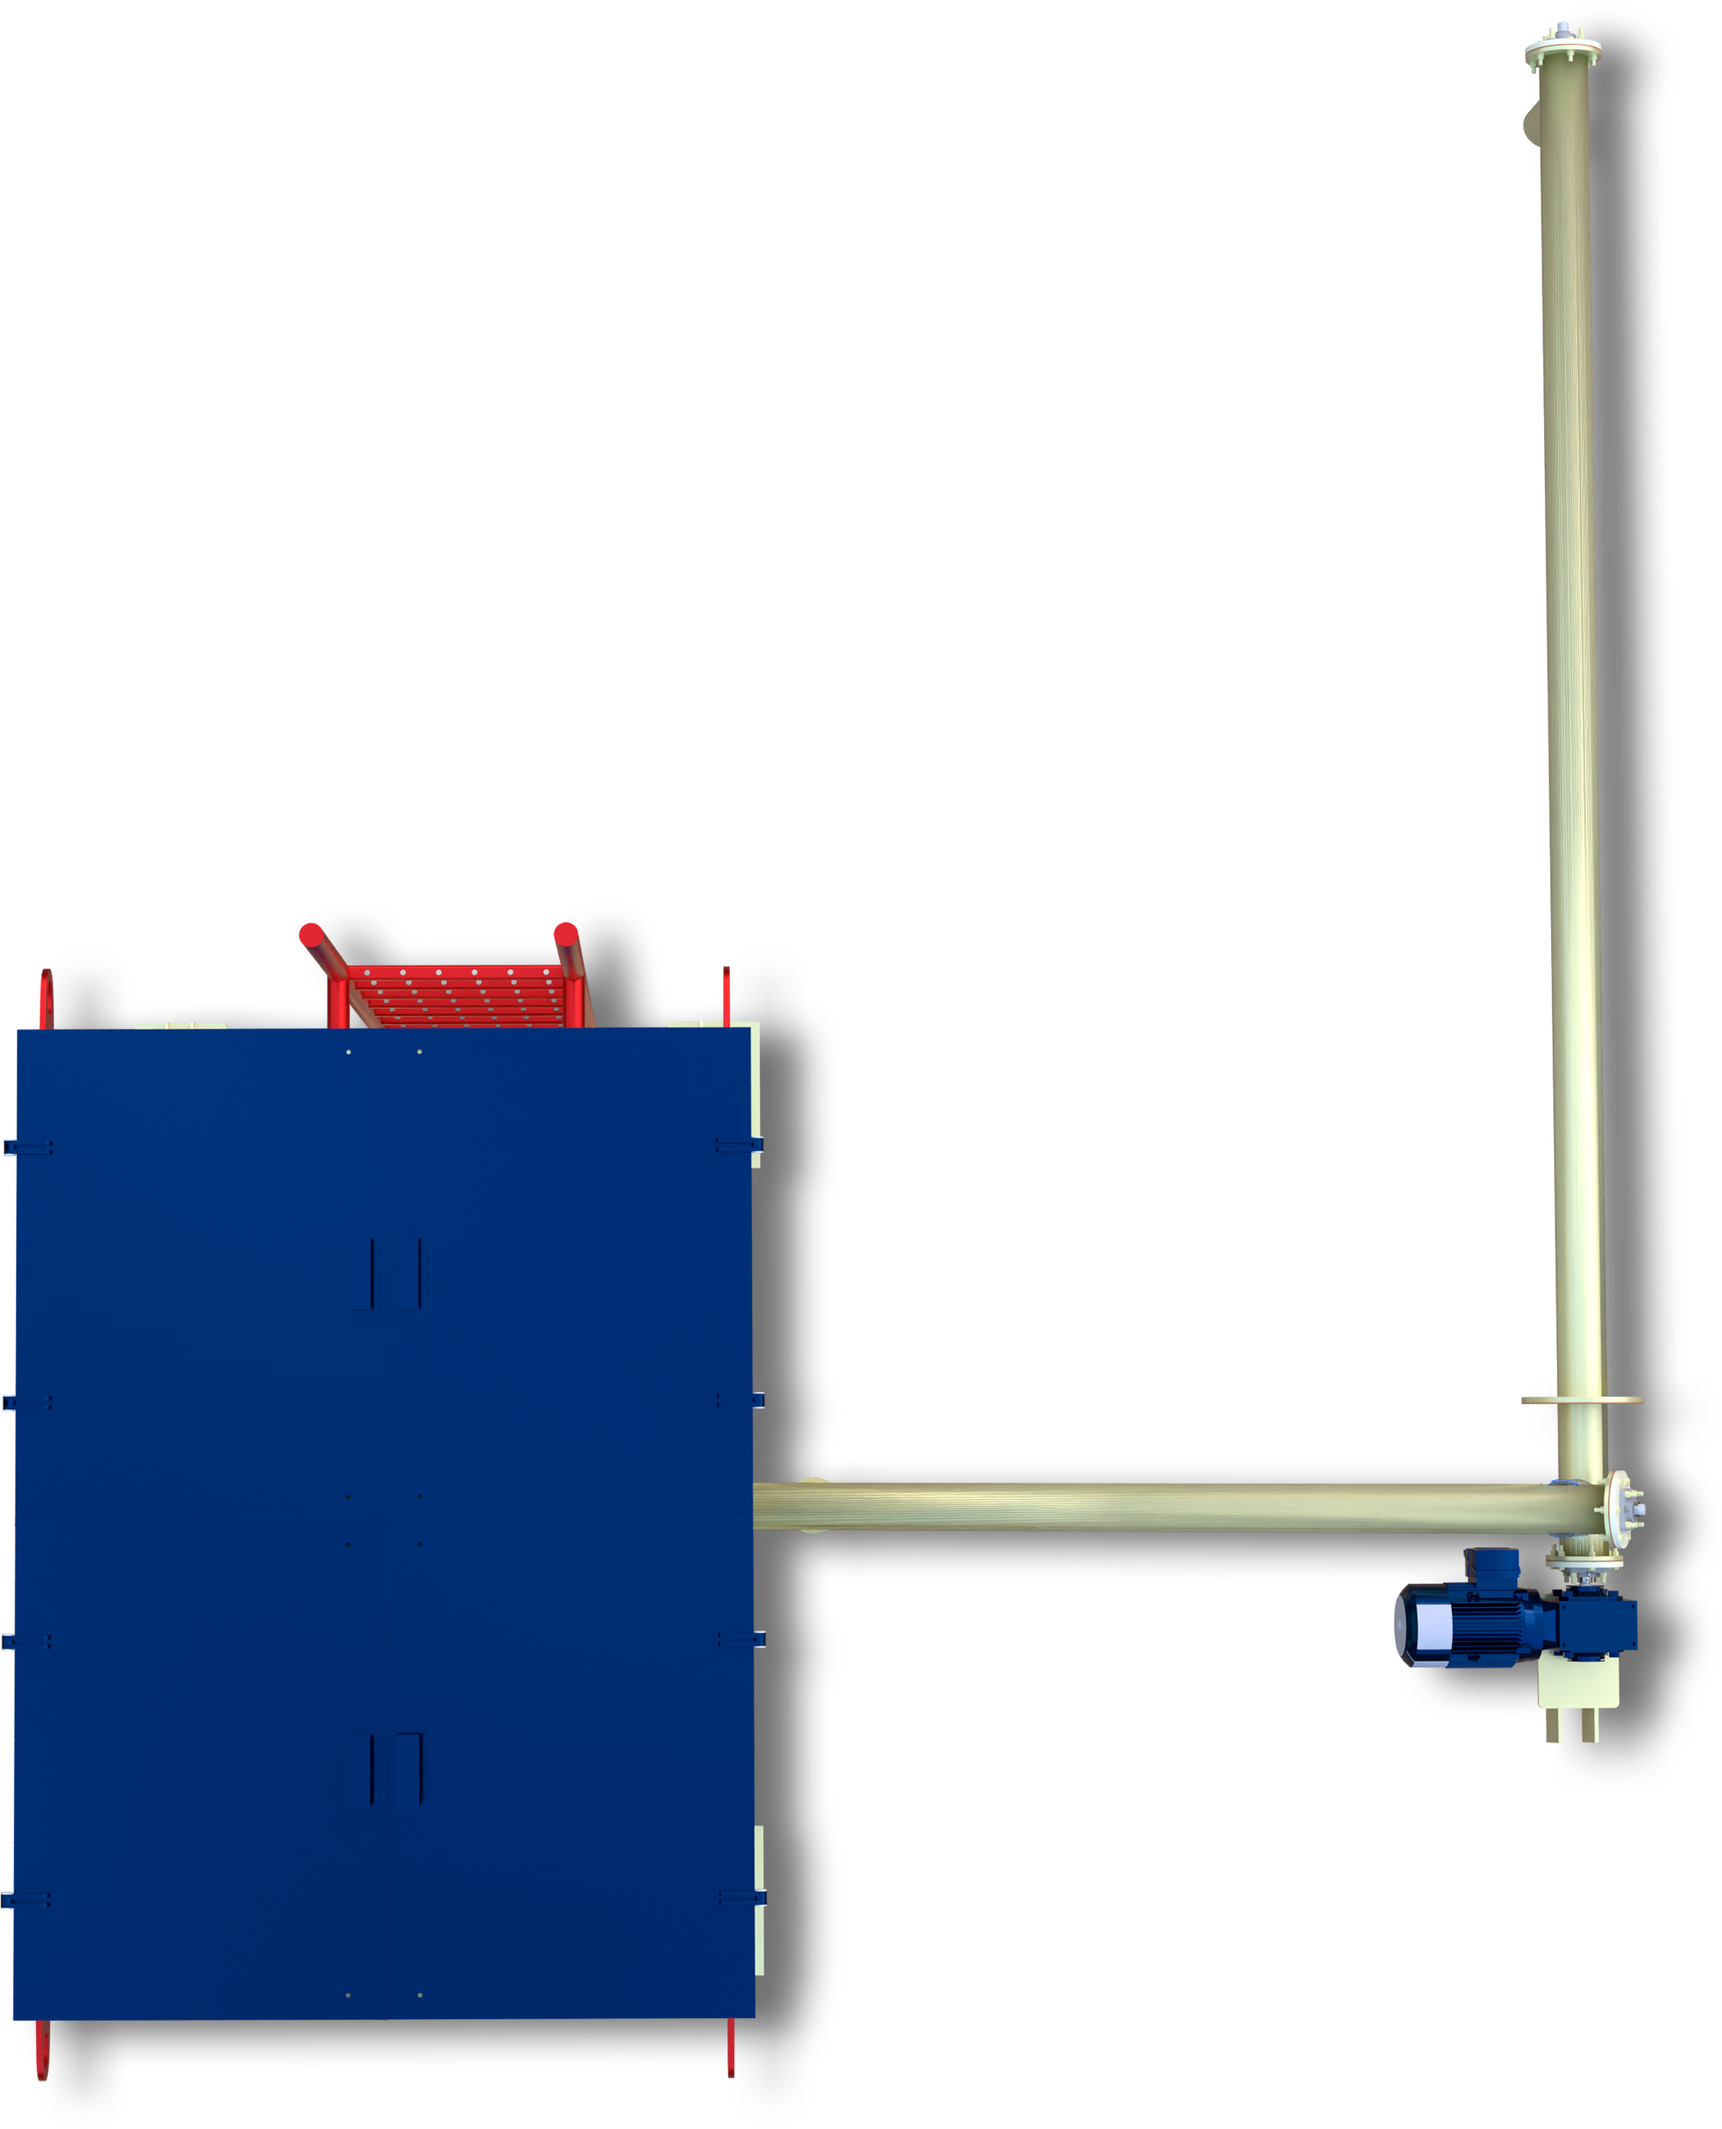
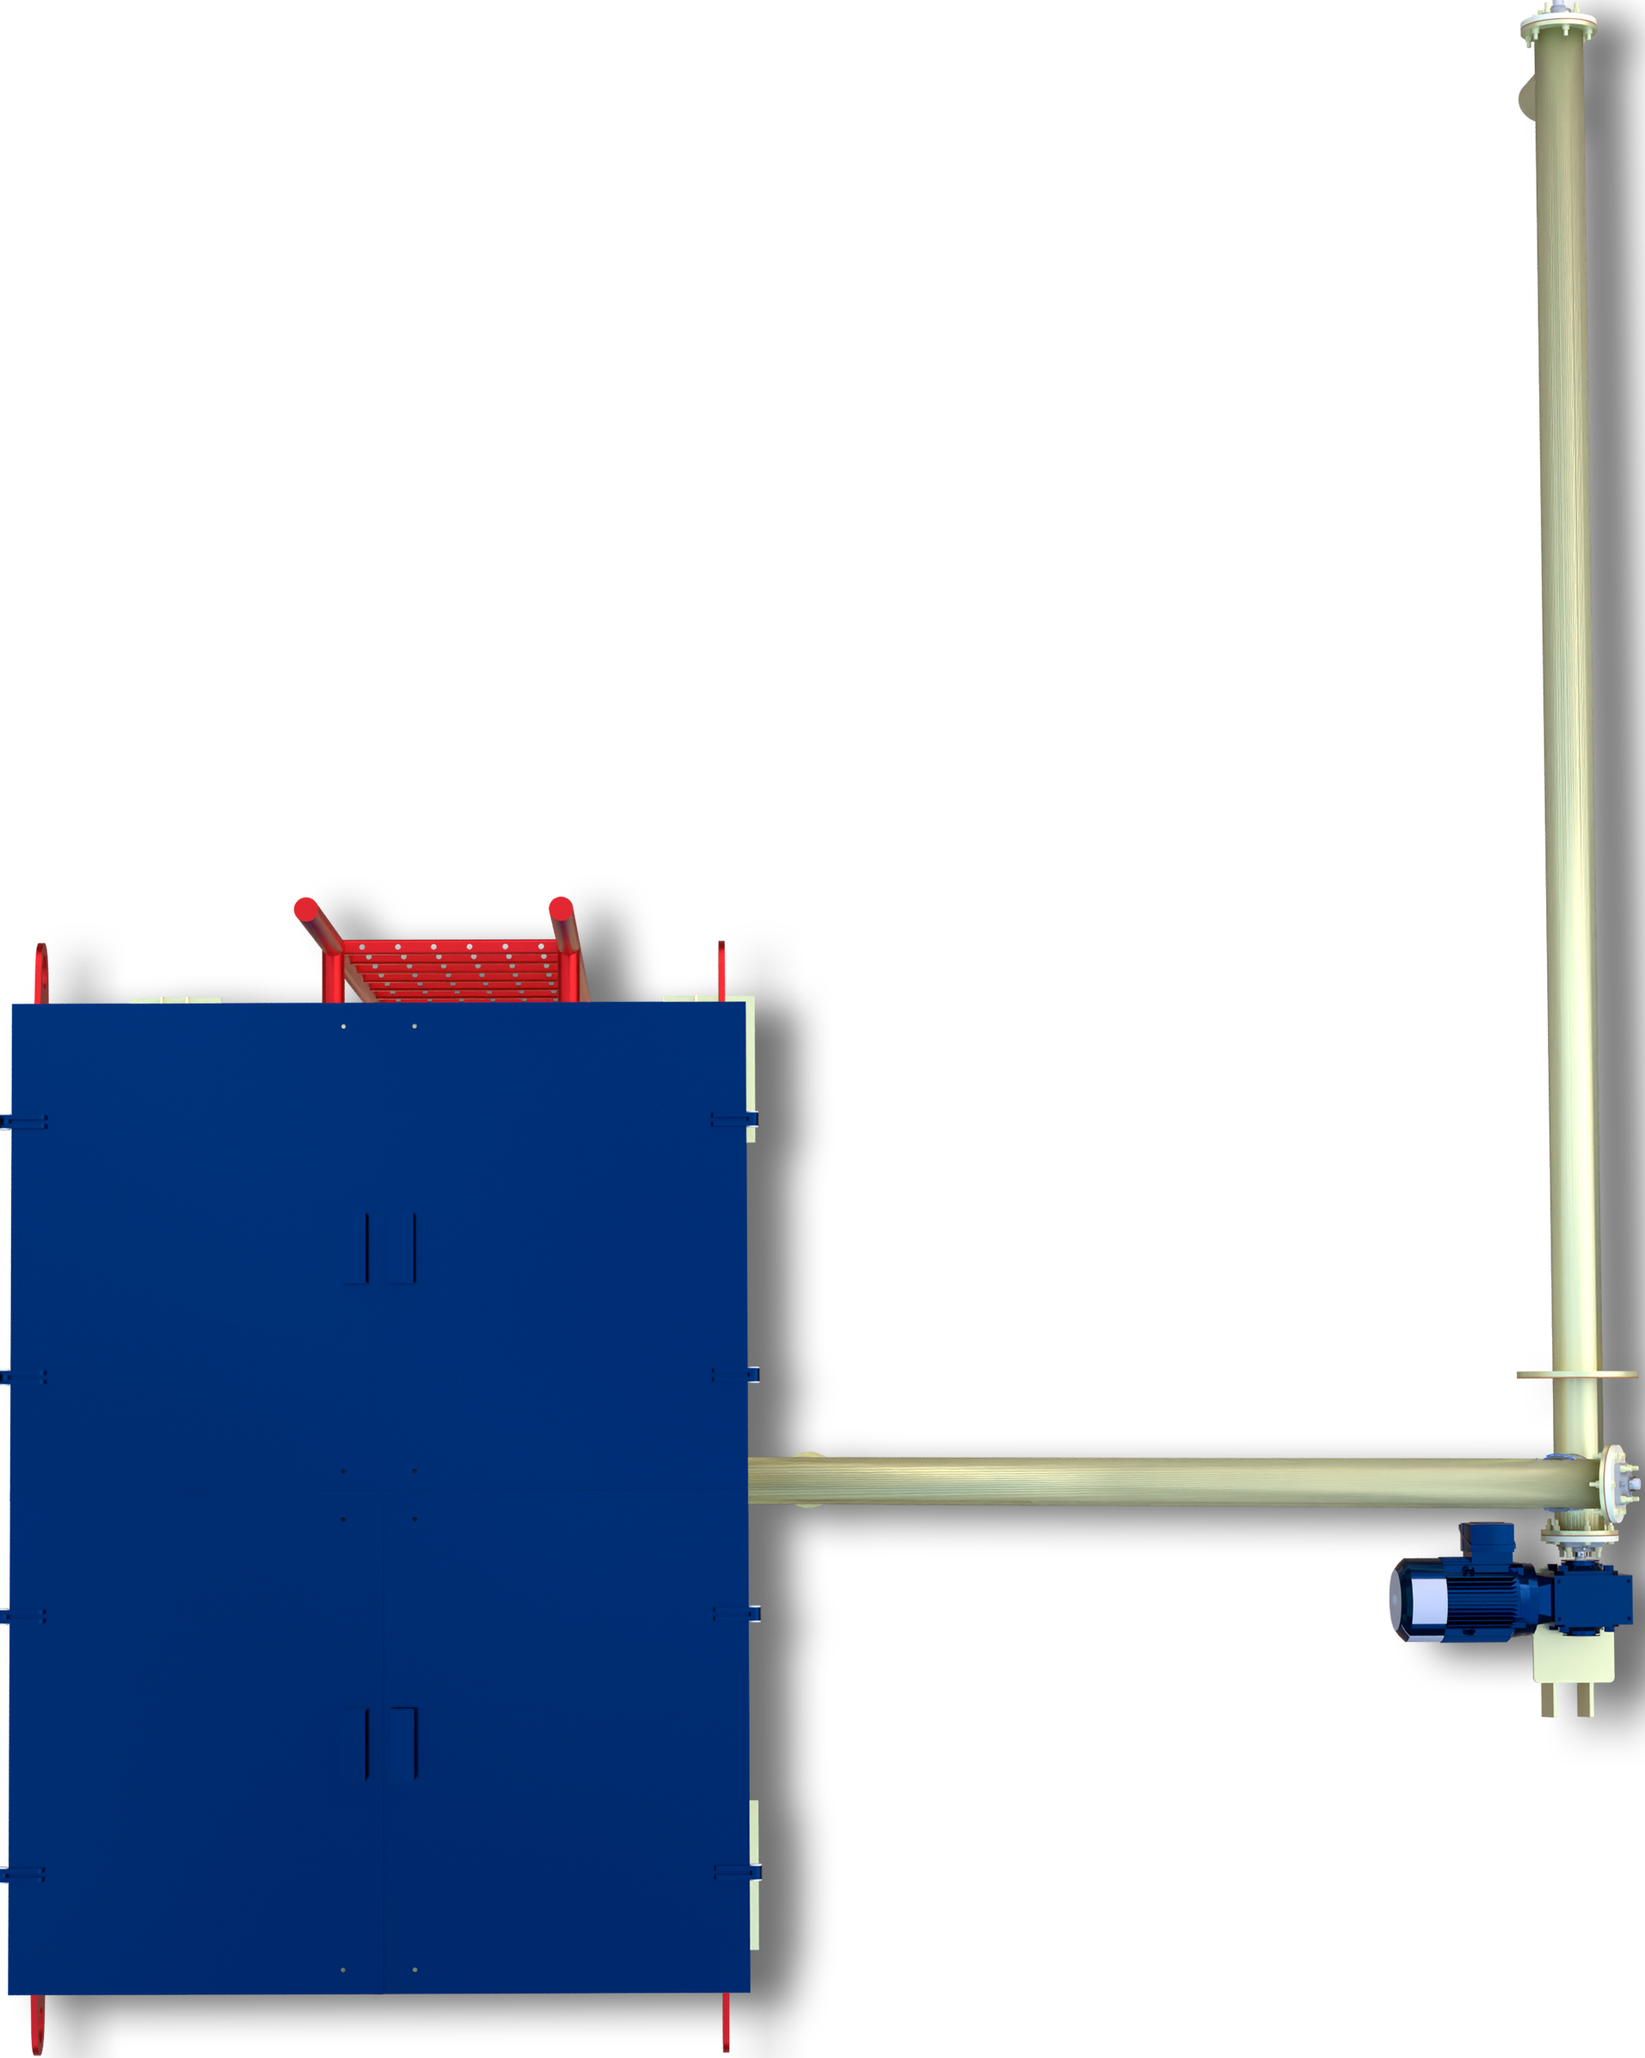
Sección de planos en Power Additives corregido

Changed region(s): [[0.0, 0.0, 1.0, 1.0], [0.2159, 0.804, 0.2467, 0.8659], [0.2159, 0.5875, 0.2467, 0.6185]]

diff --git a/src/components/PowderAd/PAPlanos.tsx b/src/components/PowderAd/PAPlanos.tsx
@@ -221,7 +221,7 @@ const PAPlanos = () => {
         >
           <img
             src={imgPlano1.src}
-            className="absolute top-0 left-[-305px] min-w-[980px] "
+            className="absolute top-0 left-0 min-w-[310px] h-full"
             alt="Imagen de fondo"
             style={{
               display: activeTab === 3 ? "block" : "none",
@@ -232,7 +232,7 @@ const PAPlanos = () => {
           <img
             ref={imgRef}
             src={imgSuperior.src}
-            className="absolute top-[-4px] left-[1px] min-w-[447px] "
+            className="absolute top-0 left-0 min-w-[310px] h-full"
             alt="Imagen superior"
             style={{ clipPath: "inset(0% 0% 0% 0%)" }}
           />
